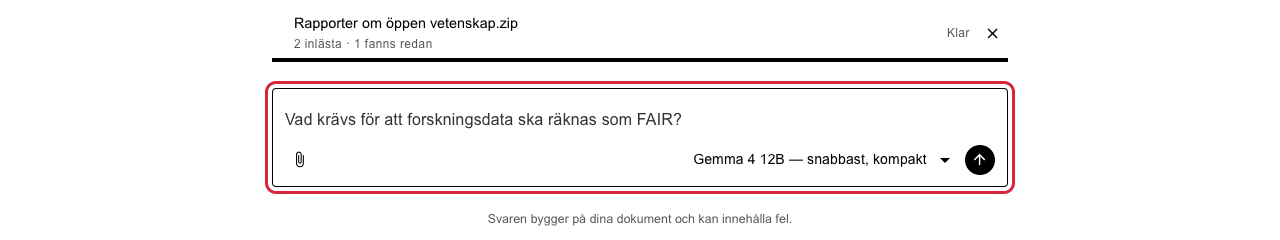
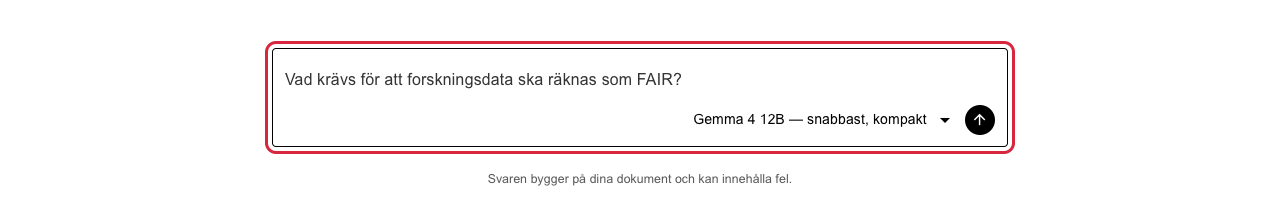
Updates

diff --git a/app.py b/app.py
@@ -1524,8 +1524,6 @@ body.body--dark .vr-logo-light { display: block; }
 .vr-upload-name { color: var(--vr-fg); font-size: 0.9rem; }
 .vr-upload-detail { color: var(--vr-text-muted); white-space: normal; word-break: break-word; }
 .vr-upload-status { color: var(--vr-text-muted); white-space: nowrap; font-variant-numeric: tabular-nums; }
-.vr-footer-uploads { max-height: 30vh; overflow-y: auto; }
-.vr-footer-uploads .vr-uploads:not(:empty) { padding-bottom: 0.6rem; }
 .vr-danger { border: 1px solid #c10015; border-radius: 2px; padding: 1rem 1.25rem; }
 .vr-source-name { color: var(--vr-fg); word-break: break-word; }
 .vr-doc-row { padding: 0.6rem 0; border-bottom: 1px solid var(--vr-border); }
@@ -1724,9 +1722,11 @@ def unlock_page():
     with _auth_card(
         "En sista gång",
         f"Kontot {s.username} skapades med en separat lösenfras. Ange den en sista gång; "
-        "därefter låser ditt lösenord upp dokumenten och lösenfrasen behövs inte mer.",
+        "därefter låser ditt lösenord upp dokumenten och lösenfrasen behövs inte mer. "
+        "Observera: lösenfrasen, inte lösenordet. Kontrollera att webbläsaren inte har fyllt i lösenordet.",
     ):
-        phrase = _secret_input("Lösenfras", "current-password").props("autofocus")
+        # Not "current-password": browsers would autofill the login password here.
+        phrase = _secret_input("Lösenfras (inte lösenordet)", "off").props('autofocus name="legacy-passphrase"')
         error = ui.label("").classes("text-red q-mt-sm")
 
         async def do_unlock():
@@ -1743,7 +1743,8 @@ def unlock_page():
                     end_session()
                     ui.navigate.to("/login")
                     return
-                error.set_text("Fel lösenfras.")
+                left = Throttle.MAX_FAILS - len(throttle.fails.get(key_throttle, []))
+                error.set_text(f"Fel lösenfras. {left} försök kvar innan kontot spärras i 15 minuter.")
                 return
             throttle.reset(key_throttle)
             kek, salt = s.migration
@@ -2160,7 +2161,7 @@ async def main_page():
             ui.label("Vad vill du veta om dina dokument?").classes("vr-greeting")
             ui.label(
                 "Dina dokument lagras krypterade med din egen nyckel. "
-                "Ladda upp PDF-, DOCX-, HTML- eller ZIP-filer och ställ frågor om dem."
+                "Ladda upp PDF-, DOCX-, HTML- eller ZIP-filer under Dokument och ställ frågor om dem."
             ).classes("vr-greeting-sub")
             with ui.row().classes("justify-center gap-2 q-mt-md"):
                 for example in (
@@ -2342,8 +2343,6 @@ async def main_page():
     # --- Composer, pinned to the bottom ---
     with ui.footer().classes("vr-footer"):
         with ui.column().classes("w-full max-w-3xl mx-auto q-px-md"):
-            with ui.element("div").classes("w-full vr-footer-uploads"):
-                UploadPanel(s)
             with ui.column().classes("w-full gap-0 vr-composer"):
                 question_input = (
                     ui.textarea(placeholder="Ställ en fråga om dina dokument...")
@@ -2362,10 +2361,6 @@ async def main_page():
                 )
 
                 with ui.row().classes("w-full items-center no-wrap gap-2"):
-                    _file_button(ui.button(icon="attach_file")).props('flat round size=sm color="black"').tooltip(
-                        "Lägg till PDF eller DOCX i ditt bibliotek"
-                    )
-                    _upload_support(s)
 
                     ui.space()
 

diff --git a/docs/anvandarguide.md b/docs/anvandarguide.md
@@ -61,8 +61,8 @@ till höger finns två flikar:
 
 ![Startsidan. Fliken Dokument är markerad.](bilder/03-startsida.png)
 
-Innan du kan ställa frågor behöver du ladda upp dokument. Klicka på
-**Dokument**.
+Innan du kan ställa frågor behöver du ladda upp dokument. Det gör du under
+**Dokument**, så klicka där.
 
 ---
 
@@ -74,8 +74,6 @@ På sidan **Dokument** klickar du på **Ladda upp** och väljer en eller flera
 filer. Du kan välja många filer på en gång, upp till 5 000.
 
 ![Dokumentsidan innan något är uppladdat. Knappen Ladda upp är markerad.](bilder/04-dokument-tom.png)
-
-Du kan också klicka på gemet (📎) i frågerutan på startsidan.
 
 **Filer som fungerar:**
 
